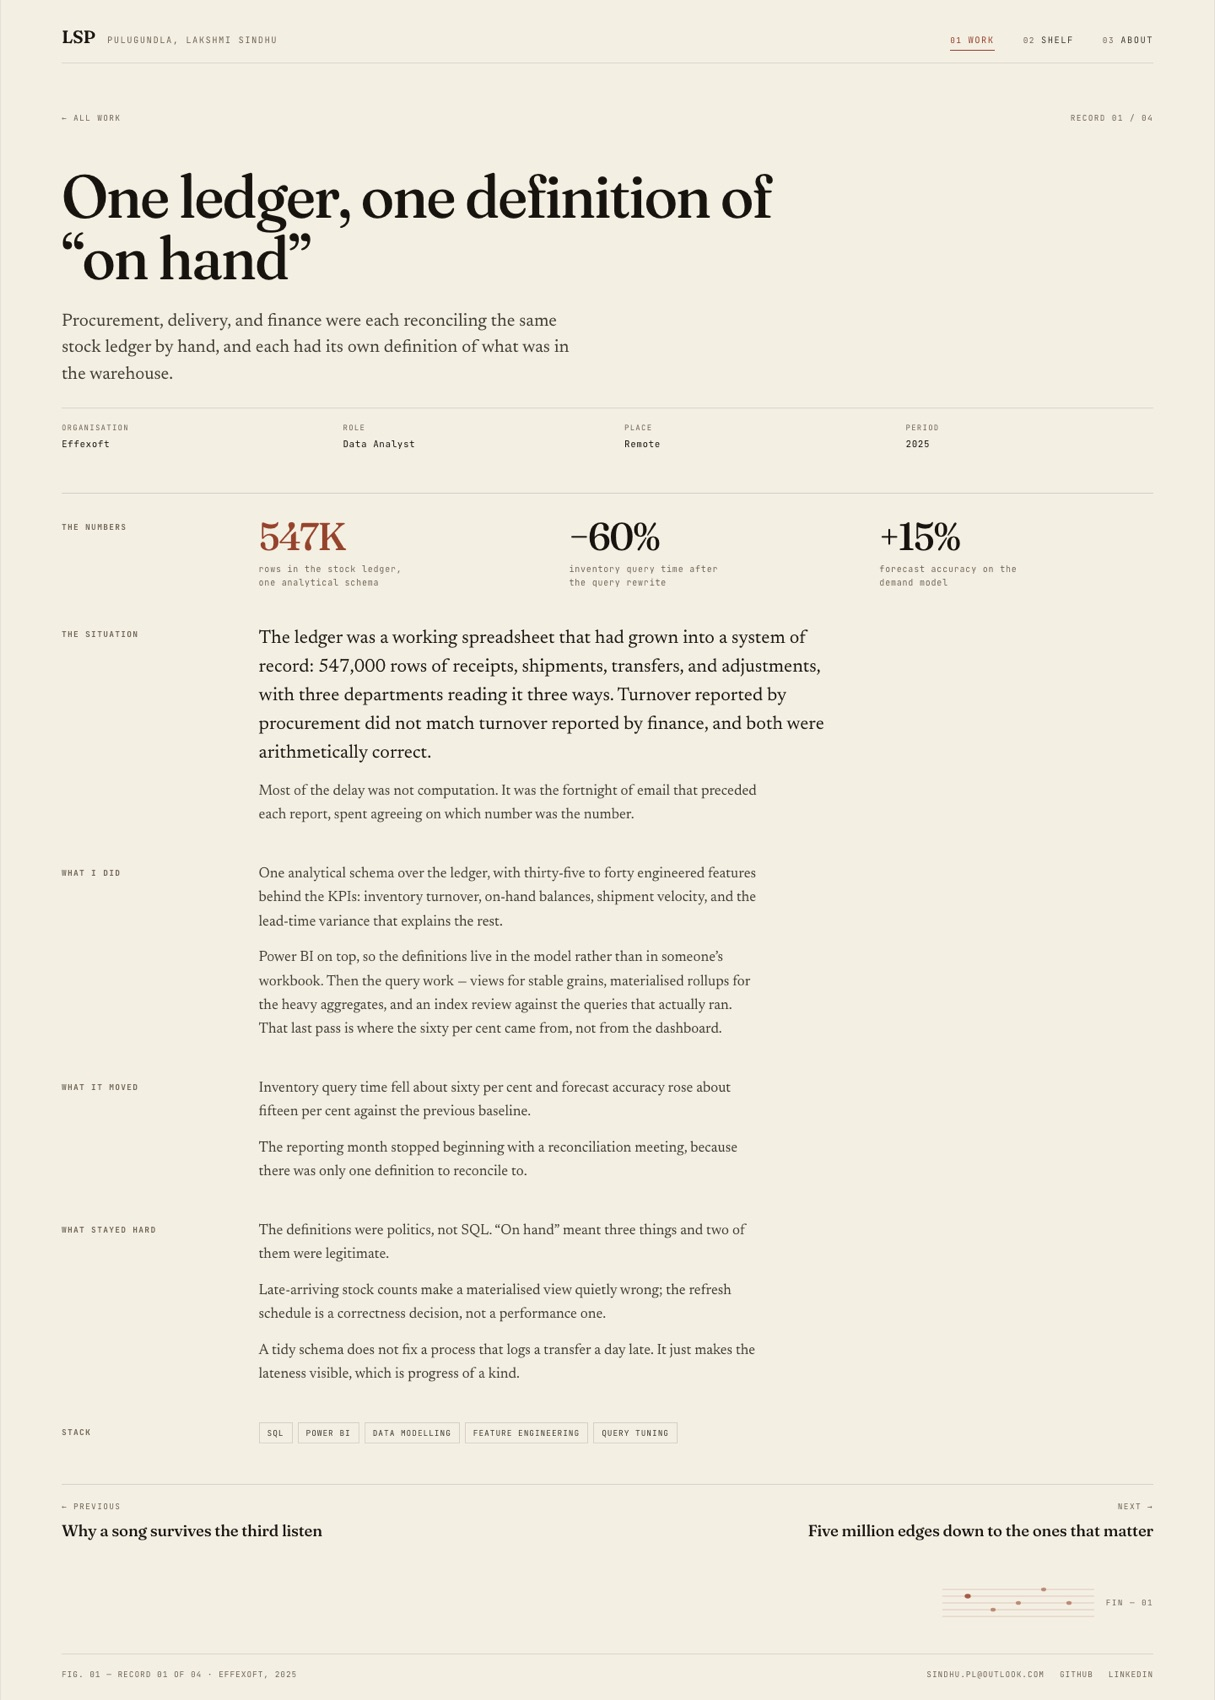
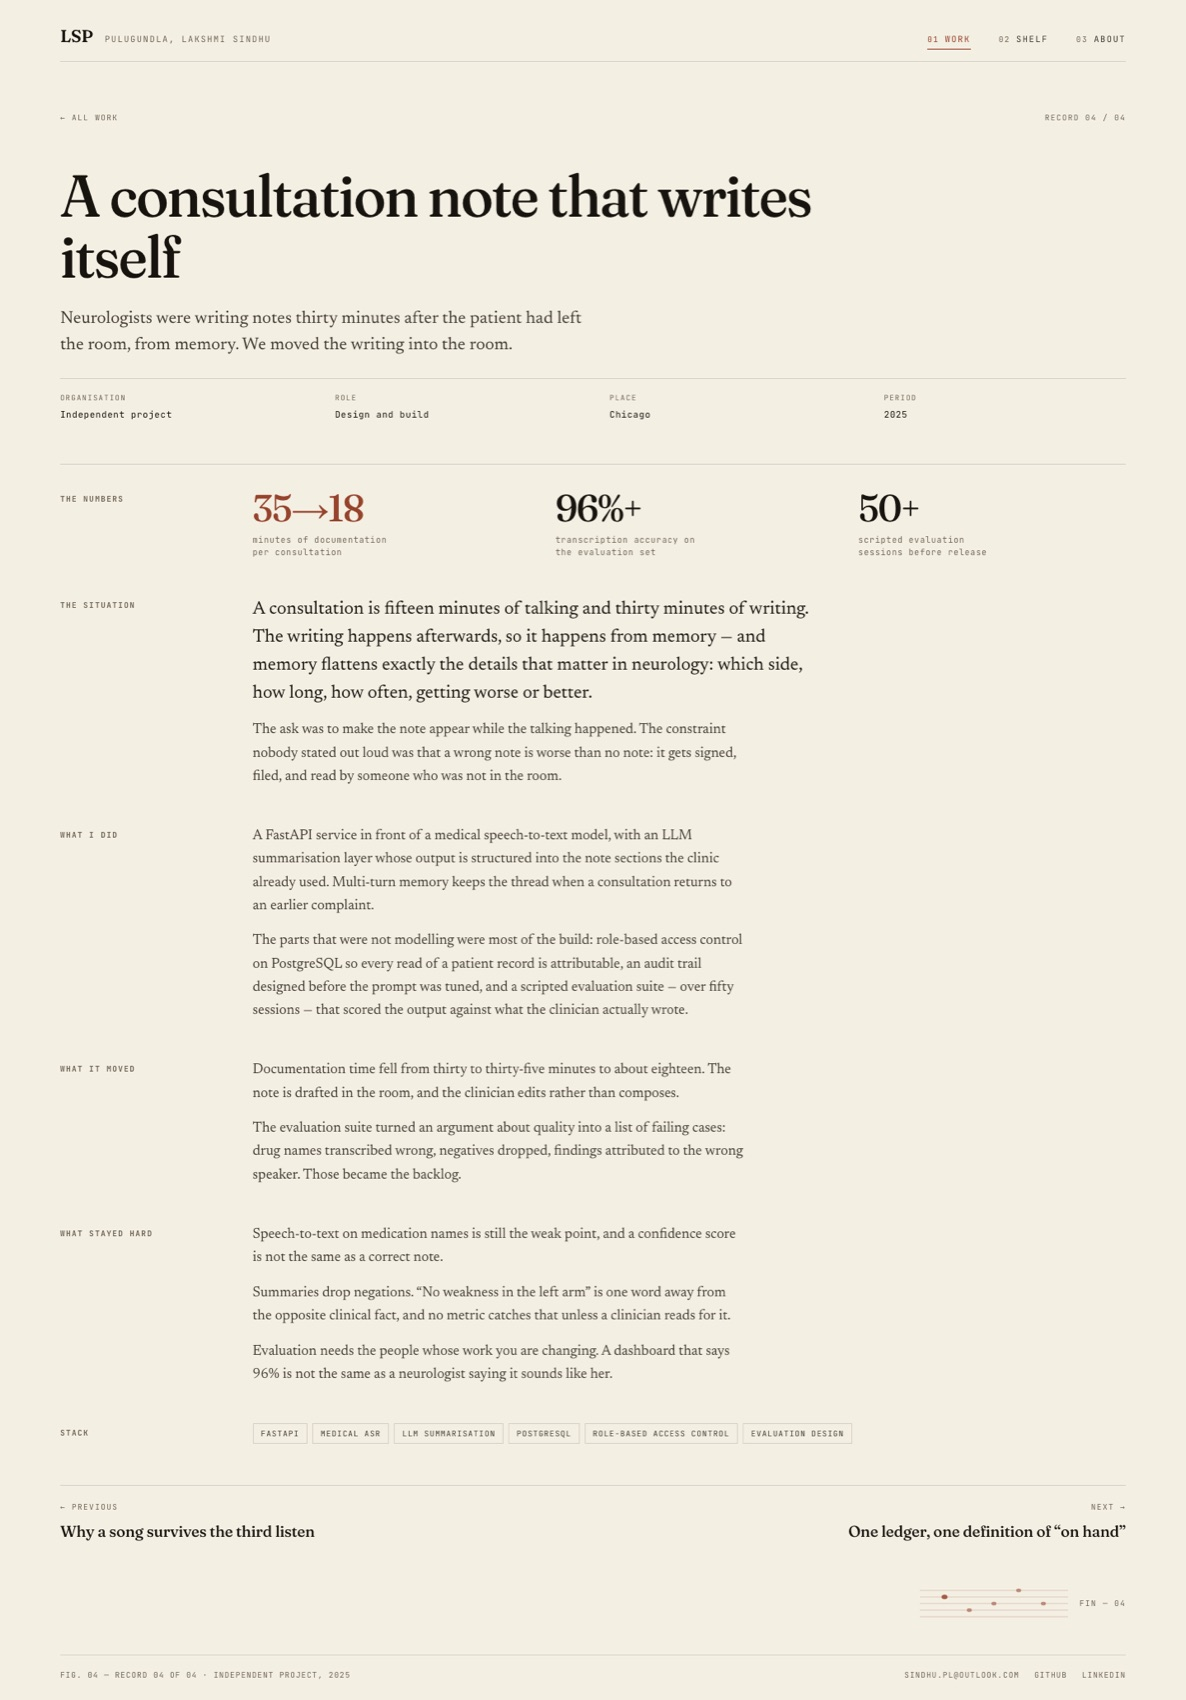
feat(work): list the clinical assistant as an independent project
The project stays on the site exactly as written, but it is no longer
attributed to Effexoft: the ledger now has two groups (employed/client
work, then independent projects) and the record page reads
"Independent project" instead of the employer. Also restores it in
profile.ts under the same framing.

diff --git a/src/data/records.ts b/src/data/records.ts
@@ -9,6 +9,8 @@ export type Figure = { value: string; label: string };
 export type WorkRecord = {
   slug: string;
   index: string;
+  /** Where the work happened: employed/client work, or a project of her own. */
+  group: 'work' | 'independent';
   title: string;
   org: string;
   place: string;
@@ -28,6 +30,7 @@ export const records: WorkRecord[] = [
   {
     slug: 'procurement-ledger',
     index: '01',
+    group: 'work',
     title: 'One ledger, one definition of “on hand”',
     org: 'Effexoft',
     place: 'Remote',
@@ -62,6 +65,7 @@ export const records: WorkRecord[] = [
   {
     slug: 'protein-network',
     index: '02',
+    group: 'work',
     title: 'Five million edges down to the ones that matter',
     org: 'Illinois Institute of Technology',
     place: 'Chicago',
@@ -96,6 +100,7 @@ export const records: WorkRecord[] = [
   {
     slug: 'repeat-listening',
     index: '03',
+    group: 'work',
     title: 'Why a song survives the third listen',
     org: 'Illinois Institute of Technology',
     place: 'Chicago',
@@ -127,9 +132,47 @@ export const records: WorkRecord[] = [
     ],
     stack: ['R', 'Python', 'Ridge / Lasso', 'Regression diagnostics', 'Cross-validation'],
   },
+  {
+    slug: 'clinical-notes',
+    index: '04',
+    group: 'independent',
+    title: 'A consultation note that writes itself',
+    org: 'Independent project',
+    place: 'Chicago',
+    period: '2025',
+    role: 'Design and build',
+    deck: 'Neurologists were writing notes thirty minutes after the patient had left the room, from memory. We moved the writing into the room.',
+    chips: ['35 → 18 min', '96%+ transcription', '50+ evaluation sessions'],
+    figures: [
+      { value: '35→18', label: 'minutes of documentation per consultation' },
+      { value: '96%+', label: 'transcription accuracy on the evaluation set' },
+      { value: '50+', label: 'scripted evaluation sessions before release' },
+    ],
+    situation: [
+      'A consultation is fifteen minutes of talking and thirty minutes of writing. The writing happens afterwards, so it happens from memory — and memory flattens exactly the details that matter in neurology: which side, how long, how often, getting worse or better.',
+      'The ask was to make the note appear while the talking happened. The constraint nobody stated out loud was that a wrong note is worse than no note: it gets signed, filed, and read by someone who was not in the room.',
+    ],
+    work: [
+      'A FastAPI service in front of a medical speech-to-text model, with an LLM summarisation layer whose output is structured into the note sections the clinic already used. Multi-turn memory keeps the thread when a consultation returns to an earlier complaint.',
+      'The parts that were not modelling were most of the build: role-based access control on PostgreSQL so every read of a patient record is attributable, an audit trail designed before the prompt was tuned, and a scripted evaluation suite — over fifty sessions — that scored the output against what the clinician actually wrote.',
+    ],
+    moved: [
+      'Documentation time fell from thirty to thirty-five minutes to about eighteen. The note is drafted in the room, and the clinician edits rather than composes.',
+      'The evaluation suite turned an argument about quality into a list of failing cases: drug names transcribed wrong, negatives dropped, findings attributed to the wrong speaker. Those became the backlog.',
+    ],
+    hard: [
+      'Speech-to-text on medication names is still the weak point, and a confidence score is not the same as a correct note.',
+      'Summaries drop negations. “No weakness in the left arm” is one word away from the opposite clinical fact, and no metric catches that unless a clinician reads for it.',
+      'Evaluation needs the people whose work you are changing. A dashboard that says 96% is not the same as a neurologist saying it sounds like her.',
+    ],
+    stack: ['FastAPI', 'Medical ASR', 'LLM summarisation', 'PostgreSQL', 'Role-based access control', 'Evaluation design'],
+  },
 ];
 
 export const recordBySlug = (slug: string) => records.find((r) => r.slug === slug);
+
+export const workRecords = records.filter((r) => r.group === 'work');
+export const independentRecords = records.filter((r) => r.group === 'independent');
 
 /** Smaller shipped work — real entries, no padding. */
 export const alsoShipped = [

diff --git a/src/data/profile.ts b/src/data/profile.ts
@@ -72,6 +72,19 @@ export const projects: Project[] = [
     stack: ['NetworkX', 'Graph analysis', 'Community detection', 'Python'],
   },
   {
+    id: 'clinical',
+    index: '04',
+    title: 'Clinical AI assistant for neurologists',
+    context: 'Independent project',
+    year: '2025',
+    outcome:
+      'A consultation note writes itself while the neurologist talks. Documentation time fell from 30–35 minutes to about 18.',
+    metrics: ['35→18 min', '96%+ transcription'],
+    method:
+      'FastAPI service with a medical speech-to-text pipeline, LLM summarisation, multi-turn conversation memory, and a QA validation suite. Role-based access control on PostgreSQL so every read of a patient record is attributable; audit trail designed before the model was tuned.',
+    stack: ['FastAPI', 'LLM integration', 'Medical ASR', 'PostgreSQL', 'RBAC'],
+  },
+  {
     id: 'spotify',
     index: '03',
     title: 'What actually drives repeat listening',

diff --git a/README.md b/README.md
@@ -37,7 +37,7 @@ Node 22+ is required (Astro 7). In this workspace `~/.npm` is not writable, so b
 | Route | What it is |
 | --- | --- |
 | `/` | The cover: a four-line statement, a staff of points, four doors |
-| `/work/` | The ledger — three records with their numbers |
+| `/work/` | The ledger — three employed/client records, then independent projects, then the smaller shipped work |
 | `/work/<slug>/` | One record: situation, what I did, what it moved, what stayed hard |
 | `/shelf/` | Singing, mythology and folklore, side projects and the learning log |
 | `/about/` | The four sentences unpacked, how I work, history, contact |
@@ -50,7 +50,7 @@ Node 22+ is required (Astro 7). In this workspace `~/.npm` is not writable, so b
 | I want to… | Edit |
 | --- | --- |
 | Change the cover statement, lede, or the four meta facts | `src/pages/index.astro` |
-| Reword or reorder the records | `src/data/records.ts` |
+| Reword or reorder the records, or move one between the two groups | `src/data/records.ts` (`group: 'work' \| 'independent'`) |
 | Add a smaller project (work page and shelf) | `alsoShipped[]` in `src/data/records.ts` |
 | Add a role or change dates | `experience[]` in `src/data/profile.ts` |
 | Change the shelf pieces | `src/pages/shelf.astro` |
